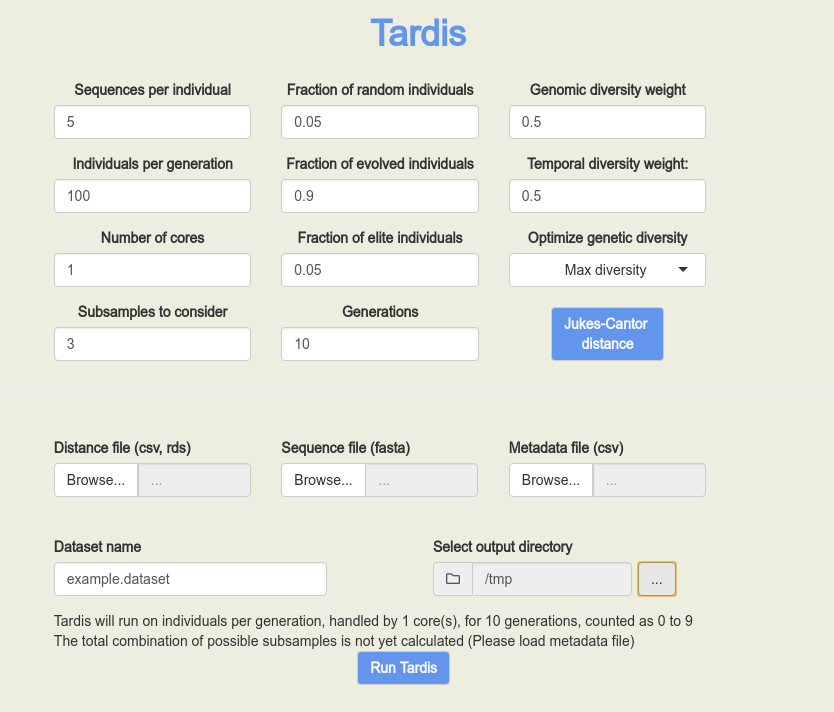
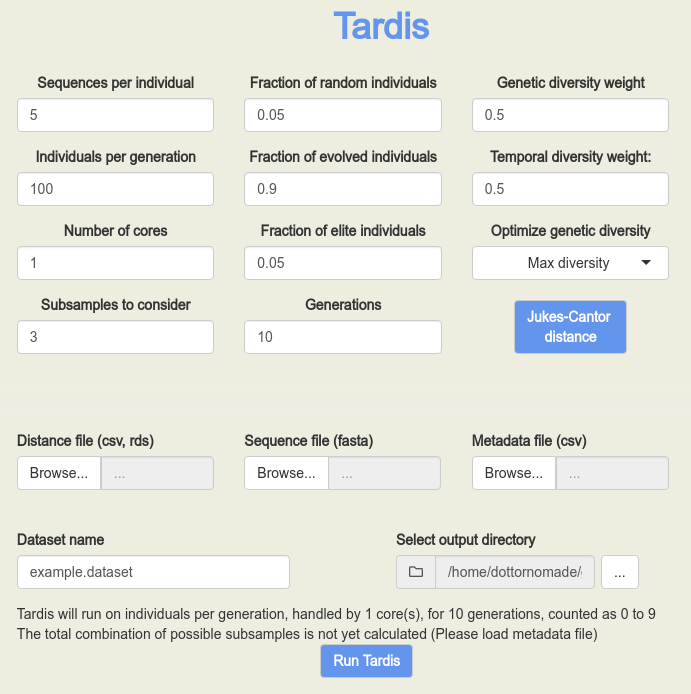
updated readme and figure

diff --git a/README.md b/README.md
@@ -9,7 +9,7 @@ Download TARDis and make sure [dependencies](#dependencies-and-os) are installed
 and the TARDiS explorer GUI will open in your default browser. Retrieve example data in `data/example` and click on `Run Tardis`.
 
 # Yes but what does TARDiS do exactly?
-TARDiS subsamples genomic data sets optimizing genomic diversity and temporal sampling according to parameters set by the users. The optimization is driven by a genetic algorithm.
+TARDiS subsamples genetic data sets optimizing genetic diversity and temporal sampling according to parameters set by the users. The optimization is driven by a genetic algorithm.
 
 # Citation
 A paper describing TARDiS principles and application is
@@ -23,8 +23,8 @@ In an early, simplified version, TARDiS principles were also applied in:
 # Running TARDiS
 To run TARDiS, you will need the following inputs:
 
-* A genomic sequence alignment in fasta format (example: `data/example/aln.fa`)
-* A distance matrix, i.e., a square matrix where you stored the genomic distances for you genomic sequence pairs. It can be a csv or rds file. Rows and columns should be named as the fasta headers (example: `data/example/jc.distance.precalc.csv`). Note that this function works for *aligned* fasta files
+* A genetic sequence alignment in fasta format (example: `data/example/aln.fa`)
+* A distance matrix, i.e., a square matrix where you stored the genetic distances for you genetic sequence pairs. It can be a csv or rds file. Rows and columns should be named as the fasta headers (example: `data/example/jc.distance.precalc.csv`). Note that this function works for *aligned* fasta files
 * A metadata file in csv format. This file should include two columns, `Accession.ID`, with the fasta headers, and `Collection.date`, with the sampling date in the dd/mm/YYYY format (example: `data/example/metadata.csv`)
 
 ## GUI
@@ -32,7 +32,7 @@ For experimenting with TARDiS, you can run the GUI as explained [above](#quick-s
 
 ![GUI](/shiny_local/gui.png)
 
-Important: **this GUI is intended for experimenting with small sets**, and small GA populations. All the GUI outputs are stored as `shiny_local/output/jc.distance.precalc.rds`. If you don't have a distance file, the `Jukes-Cantor distance` calculates the genomic distance. This distance files is to used as part of the TARDiS input. For larger data sets, please use the command line version instead. 
+Important: **this GUI is intended for experimenting with small sets**, and small GA populations. All the GUI outputs are stored as `shiny_local/output/jc.distance.precalc.rds`. If you don't have a distance file, the `Jukes-Cantor distance` calculates the genetic distance. This distance files is to used as part of the TARDiS input. For larger data sets, please use the command line version instead. 
 
 ## Command line (requires [Nextflow](https://www.nextflow.io/))
 You can run TARDiS from the command line as follows:
@@ -58,7 +58,7 @@ params.wdiv = 1
 params.wtem = 1
 params.distopt = "max"
 ```
-Settable parameters in the config file are: params.data_set (name of the data set), params.nsamples (number of genomes in the subsample), params.gensize (size of the generation per batch, see [below](#batches), default 1 batch), params.nbatches (number of batches, see below), params.ncores (number of cores for parallel computing), params.ngenerations (number of generations), params.fracnew (fraction of newly generated individuals per generation), params.fracevolved (fraction of evolved individuals per generation), params.fracelite (fraction of elite individuals per generation; elite individuals are the ones with the highest fitness, to be copied as they are in the new generation), params.wdiv (weight of the genomic diversity), params.wtem (weight of the time distribution), params.distopt (target of genomic diversity optimization, "max", "median", or "mean" of the initial population).
+Settable parameters in the config file are: params.data_set (name of the data set), params.nsamples (number of genomes in the subsample), params.gensize (size of the generation per batch, see [below](#batches), default 1 batch), params.nbatches (number of batches, see below), params.ncores (number of cores for parallel computing), params.ngenerations (number of generations), params.fracnew (fraction of newly generated individuals per generation), params.fracevolved (fraction of evolved individuals per generation), params.fracelite (fraction of elite individuals per generation; elite individuals are the ones with the highest fitness, to be copied as they are in the new generation), params.wdiv (weight of the genetic diversity), params.wtem (weight of the time distribution), params.distopt (target of genetic diversity optimization, "max", "median", or "mean" of the initial population).
 
 ### HPC and resource allocation
 The default NextFlow execution profile (option -p) is "local", which uses the local machine directly. In an HPC environment, you can use the "small" (5 GB), "medium" (30 GB), or "large" (128 GB) profiles, which assume the presence of the SLURM scheduler.
